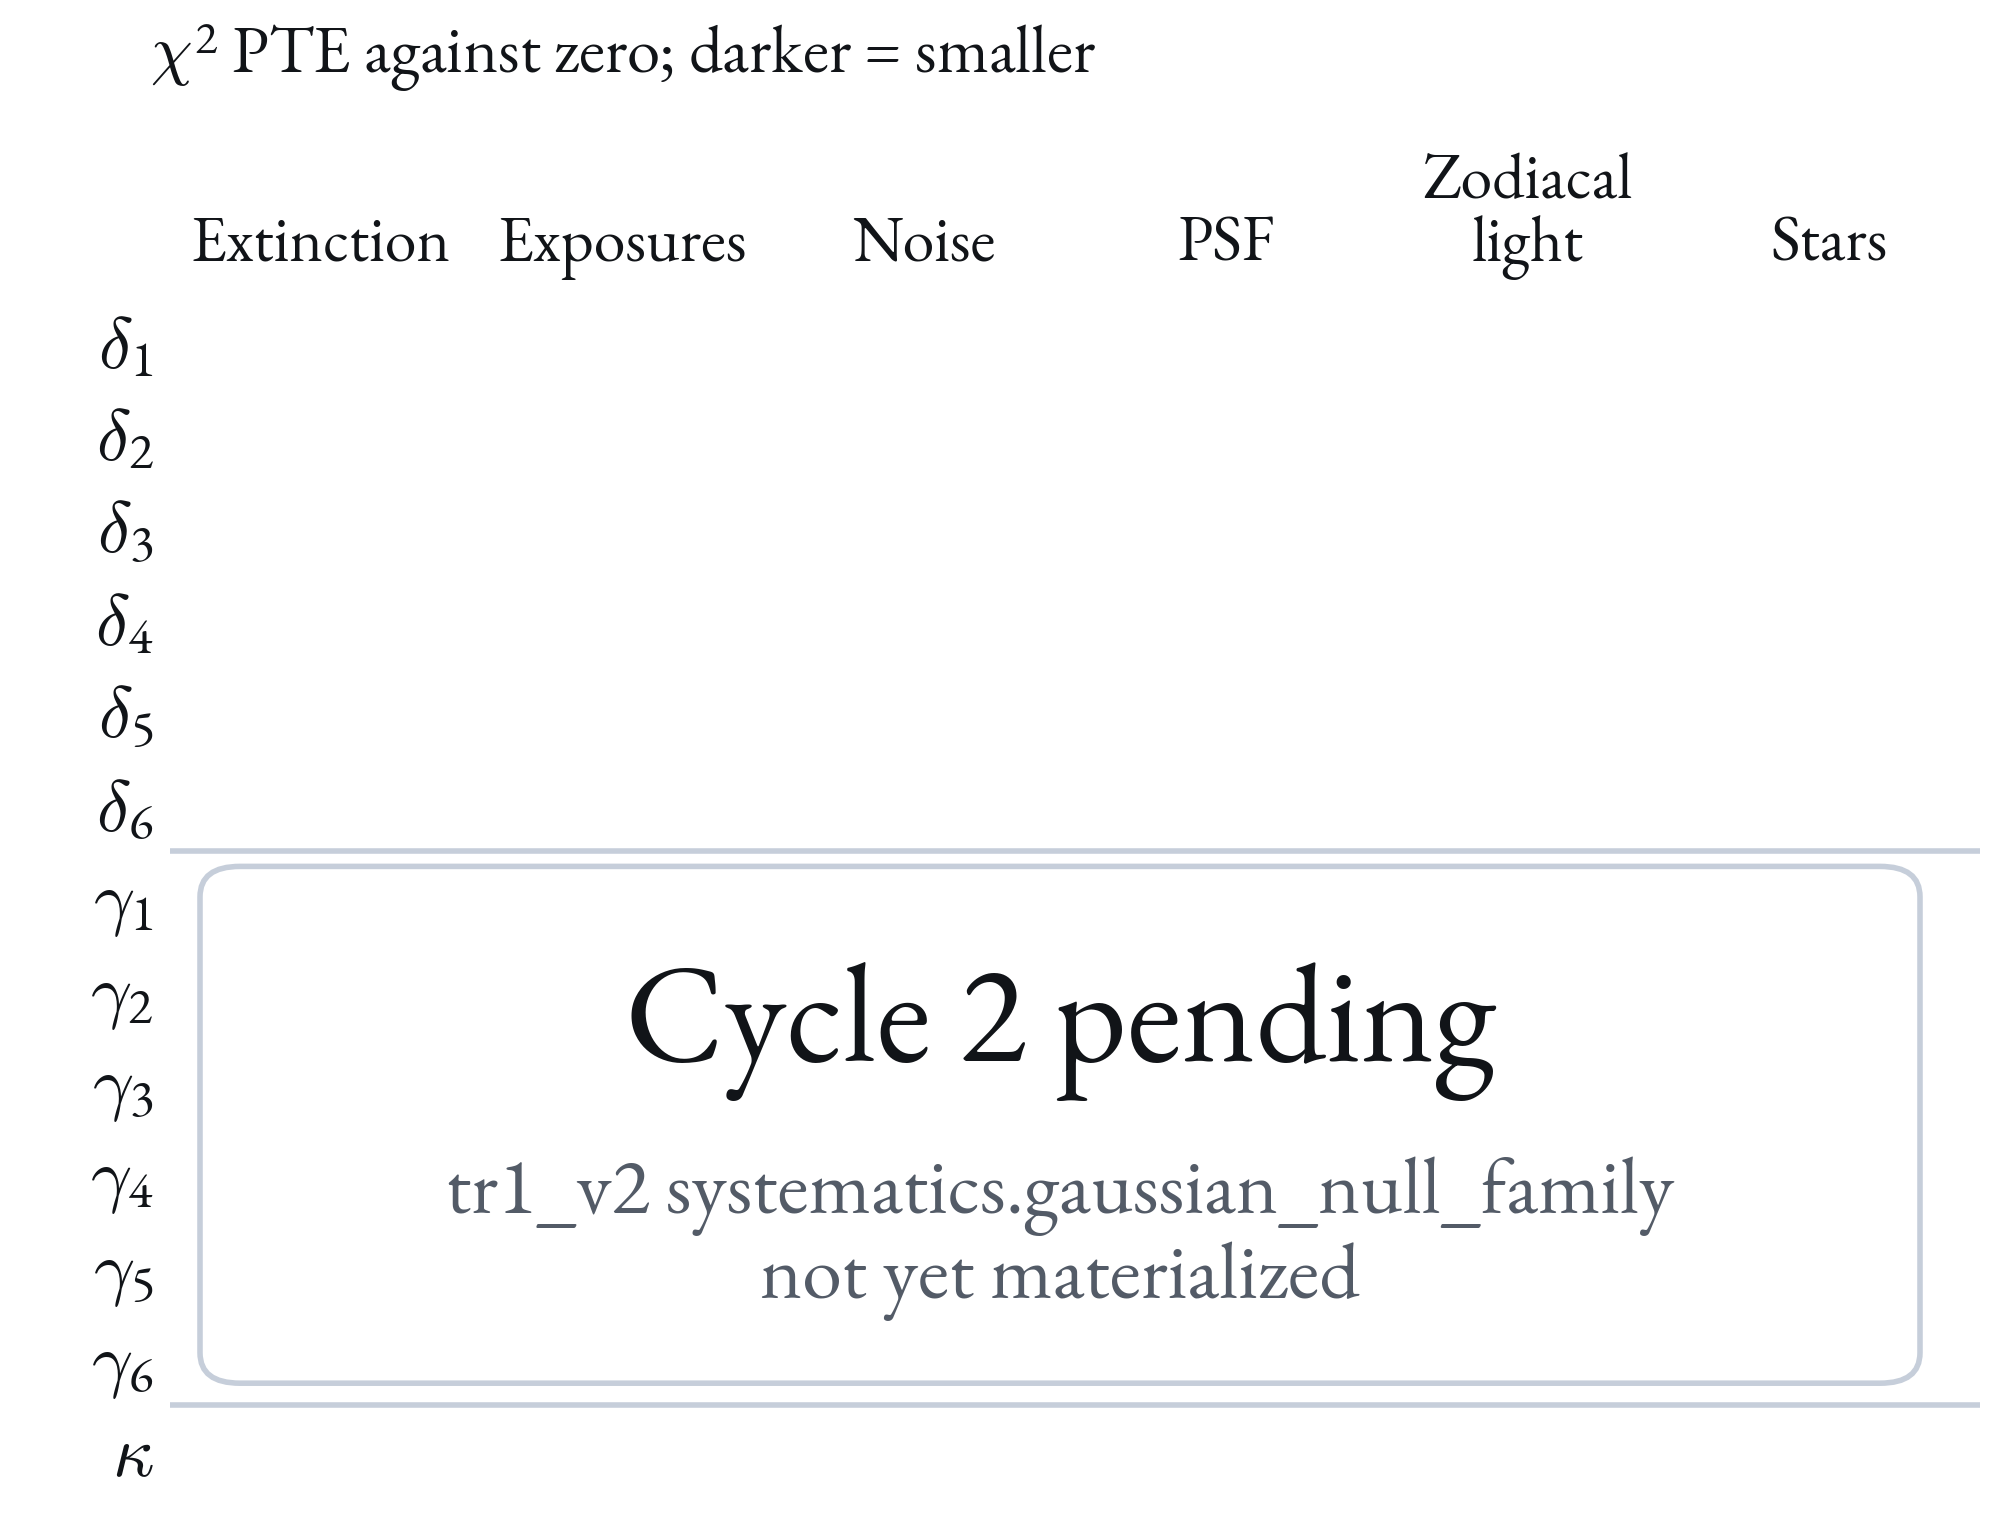
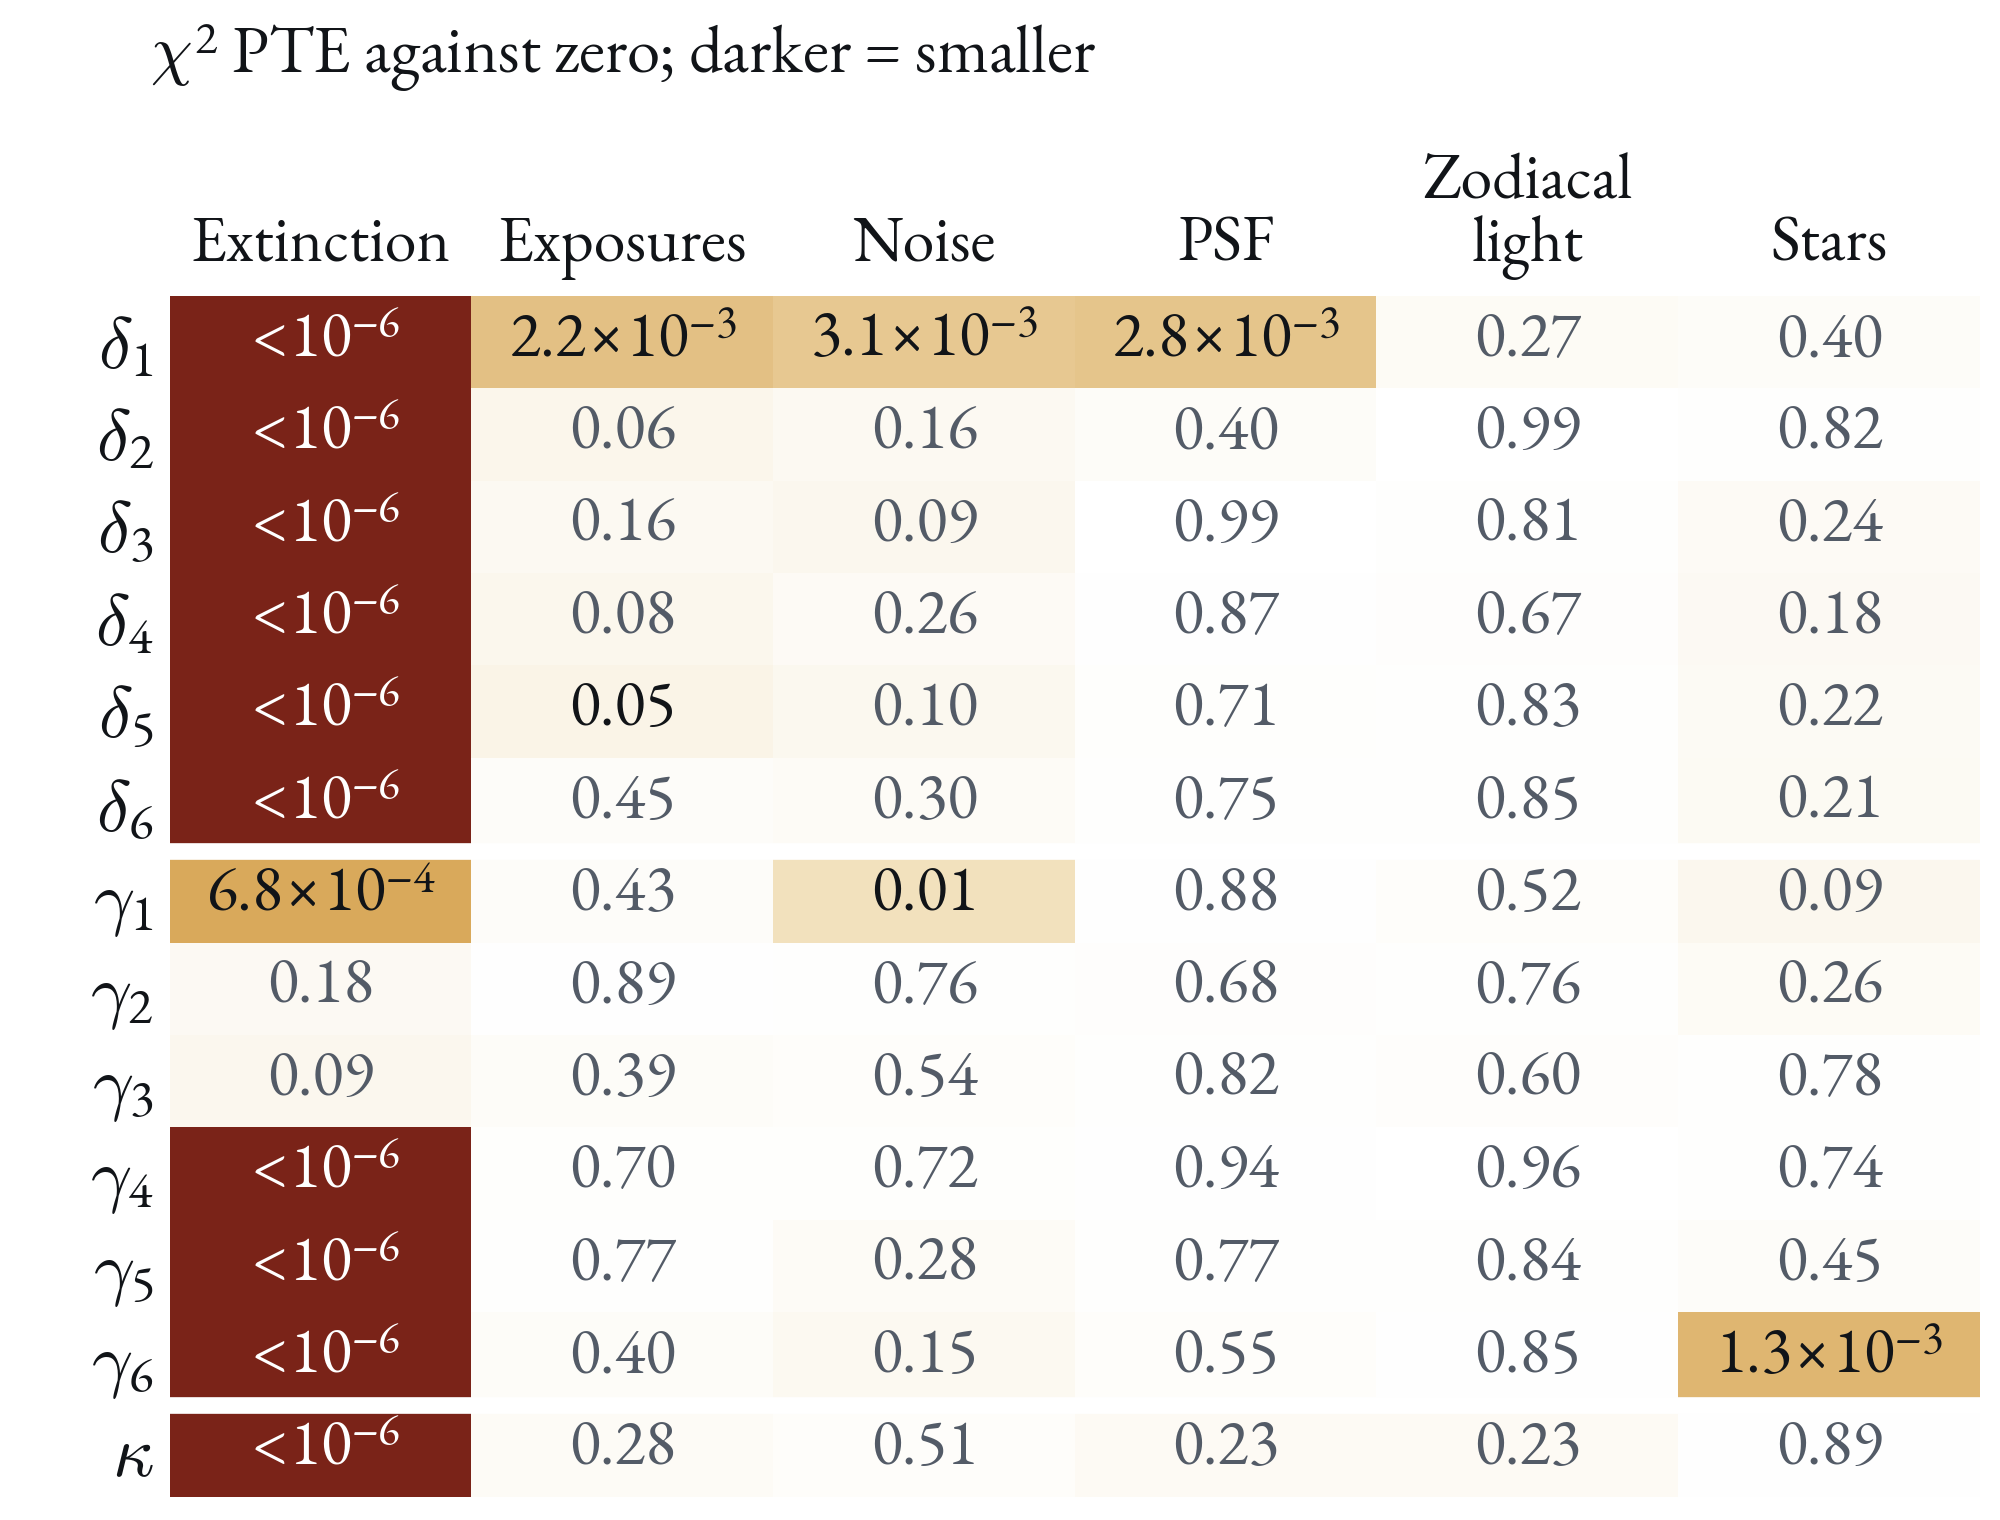
GC8 slide 2: fill Cycle-2 Gaussian template nulls

diff --git a/2610_GC8_Systematics/slides/systematics-overview.html b/2610_GC8_Systematics/slides/systematics-overview.html
@@ -1,9 +1,9 @@
 <section data-preliminary data-layout="figure-text" data-split="60">
-  <h2>Survey-template nulls for the density bins</h2>
+  <h2><span data-variant="c1">Survey-template nulls for the density bins</span><span data-variant="c2">Extinction is nonzero; GC1 retains the depth signature</span></h2>
   <figure>
     <img src="images/gc8_heatmap_c1.png" data-alt='{"c2": "images/gc8_heatmap_c2.png"}' alt="Table of null-test probabilities to exceed: rows are lens bins delta 1 to 6, source bins gamma 1 to 6 and CMB lensing kappa, columns six systematics templates. In Cycle 1 every cell is light except delta 5 against extinction">
     <mark class="box red" data-box="3 18.9 96.6 37.7"></mark>
-    <span class="source"><span data-variant="c1">Cycle 1: TR1 v1.1</span><span data-variant="c2">Cycle 2: tr1_v2</span> · LensMC × SPT-3G · $100 \lt \ell \lt 3000$</span>
+    <span class="source"><span data-variant="c1">Cycle 1: TR1 v1.1</span><span data-variant="c2">Cycle 2: tr1_v2 · joint Gaussian blocks</span> · LensMC × SPT-3G · $100 \lt \ell \lt 3000$</span>
   </figure>
   <div class="text">
     <ul data-variant="c1">
@@ -13,10 +13,11 @@
     </ul>
     <p class="small" data-variant="c1">$\delta$ divided by the VMPZ v1.1 test visibility weights (Jan 2026, not validated). PTEs not calibrated on mocks.</p>
     <ul data-variant="c2">
-      <li>DR1 R2 templates, tr1_v2 selection</li>
-      <li>$\delta$ visibility-corrected at the source</li>
+      <li>Extinction: all six $\delta$ PTEs $\lt 10^{-6}$</li>
+      <li>GC1 × exposures / noise: 0.0022 / 0.0031</li>
+      <li>$\delta_6$ peaks at $+10.45\sigma_\mathrm{G}$</li>
     </ul>
-    <p class="small" data-variant="c2">Fills in when systematics.gaussian_null_family lands.</p>
+    <p class="small" data-variant="c2">Nonzero extinction is expected from the CIB (slide 5); a failed zero-null is not a contamination verdict.</p>
   </div>
   <aside class="notes">
     <p>Each cell is a null test: one Euclid tracer (lens bin $\delta_i$, source bin $\gamma_i$, the rows) or the SPT-3G CMB lensing map $\kappa$, crossed with one VMPZ systematics template (the columns). The number is the $\chi^2$ probability to exceed over 15 bands, $100 \lt \ell \lt 3000$, against zero. The density rows (boxed) are the ones for galaxy clustering to validate. Values below $10^{-6}$ are written as such. These template crosses are blinding-independent. The Cycle toggle switches the data cycle; both cycles show LensMC shear and SPT-3G $\kappa$ (the MetaCal and ACT DR6 versions of Cycle 1 are in the KP2-3 deck).</p>
@@ -26,8 +27,9 @@
     <p>Two caveats on the weights. The visibility model is a SOM fit to five survey-property maps that the headers do not name; a template among them is removed partly by construction, so its clean cell checks that the correction was applied, and only templates outside the model are independent tests. And the WEIGHT convention is this pipeline's: the official randoms follow $1 + \mathrm{WEIGHT}$ with slope 0.52, not 1, so the producers need to confirm it. The correction leaves $\delta \times \kappa$ within $1\sigma$ of the unweighted measurement in every band (largest change $0.96\sigma$, bin 3), so it does not visibly remove signal; an injected-signal mock test would settle that.</p>
     <p>The PTEs are not yet trustworthy as significances: with about a hundred template crosses per variant, correlated through shared tracers and templates, and an analytic covariance not yet checked against mocks, their distribution under the null is not known. The plan is to run the same null tests on the GLASS mocks and calibrate them, as for the UNIONS B-mode null tests. Read the dark cells as clear detections and the 0.01–0.1 cells as unknown.</p>
     <h3>Cycle 2 (tr1_v2)</h3>
-    <p>What changes: the six templates are the DR1 R2 products (same six survey properties), the lens and source samples are the tr1_v2 selection, and the density maps are visibility-corrected at the source (the pipeline's VMPZ visibility footprint), so no after-the-fact weight is applied. The covariance is one joint NaMaster Gaussian covariance for all 78 template $\times$ tracer tests, conditional on the fixed templates (template–data Wick terms set to zero), and each cell's $\chi^2$ uses that test's own block, $\kappa$ included. Producer: <code>workflow/scripts/systematics_cycle2.py</code> (<code>family</code>), lc output <code>results/tr1_v2/systematics/gaussian_null_family.tar</code>, which also carries a Gaussian-draw calibration of the whole family. Until it lands the Cycle-2 panel is empty.</p>
-    <p><strong>Is the extinction signal CIB?</strong> The extinction template is documented as Planck 2013 radiance-based $E(B-V)$, which carries cosmic infrared background; of the six templates it is the only one that correlates with the Planck GNILC CIB maps. The next two slides test the CIB reading. The template-cross estimator leaks the large-scale ($\ell \lt 100$) modes of steep-spectrum maps like dust into the $\ell \ge 100$ bands, so a template cross at a given $\ell$ is not a measurement at that $\ell$; the null tests stand as nulls (an uncorrelated template gives zero in every band whatever leaks). Scratch analyses: <code>results/scratch/napoli/visibility_check</code>, <code>results/scratch/napoli/cib_extinction</code>.</p>
+    <p>What changes: the six templates are the DR1 R2 products (same six survey properties), the lens and source samples are the tr1_v2 selection, and the density maps are visibility-corrected at the source (the pipeline's VMPZ visibility footprint), so no after-the-fact weight is applied. The covariance is one joint NaMaster Gaussian covariance for all 78 template $\times$ tracer tests, conditional on the fixed templates (template–data Wick terms set to zero), and each cell's $\chi^2$ uses that test's own block, $\kappa$ included. Producer: <code>workflow/scripts/systematics_cycle2.py</code> (<code>family</code>), lc output <code>results/tr1_v2/systematics/gaussian_null_family.tar</code>, which also carries a Gaussian-draw calibration of the whole family. All 78 tests have 15 bands; the named blocks and all $\chi^2$/PTEs recompute from <code>summary.json</code> and <code>joint.npz</code> (root commit <code>bd6b06f</code>). Both joint max-$\chi^2$ and Fisher rank PTEs recompute as 1/10001, with zero exceedances in 10000 Gaussian draws (95% tail interval [0, 0.000369]); this is finite-draw resolution, not PTE zero or matched-GLASS calibration.</p>
+    <p>Unlike Cycle 1's visibility-weighted rows, all six density × extinction tests fail the zero-null; $\delta_6$ has $\chi^2=292.70/15$, PTE $1.83\times10^{-53}$. Its worst band is $\ell=2695.5$, $+10.45\sigma_\mathrm{G}$; the preceding four bands are +4.51, +4.58, +5.56 and +6.91, a broad positive high-$\ell$ sequence, not an isolated spike. The largest shear band is $\gamma_6$ at $\ell=2148$, $+9.56\sigma_\mathrm{G}$. GC1 keeps the exposure/noise signature: $\chi^2=35.40/34.26$ (15 bands), PTE 0.002159/0.003126, with opposite-sign worst bands at $\ell=1712$, $+4.16/-3.40\sigma_\mathrm{G}$. GC1 × PSF also gives PTE 0.002781 (worst $+3.28\sigma_\mathrm{G}$ at $\ell=2695.5$); $\gamma_6$ × stars gives 0.001254 (worst $+2.98\sigma_\mathrm{G}$ at $\ell=2695.5$). These are correlated tests, not independent discoveries.</p>
+    <p><strong>Is the extinction signal CIB?</strong> The extinction template is documented as Planck 2013 radiance-based $E(B-V)$, which carries cosmic infrared background; of the six templates it is the only one that correlates with the Planck GNILC CIB maps. Slide 5's separate 857 GHz route test supports a CIB reading. A nonzero extinction × density cross is then expected, so failure of the zero-null does not by itself imply survey contamination. The template-cross estimator leaks the large-scale ($\ell \lt 100$) modes of steep-spectrum maps like dust into the $\ell \ge 100$ bands, so a template cross at a given $\ell$ is not a measurement at that $\ell$; the null tests stand as nulls (an uncorrelated template gives zero in every band whatever leaks). Scratch analyses: <code>results/scratch/napoli/visibility_check</code>, <code>results/scratch/napoli/cib_extinction</code>.</p>
     <p>Figure: <code>2610_GC8_Systematics/make_cycles.py</code> (<code>heatmap</code>), from <code>results/tr1/tr1_systematics/&lt;template&gt;.tar</code> (Cycle 1) and <code>results/tr1_v2/systematics/gaussian_null_family.tar</code> (Cycle 2). Detected in a cross does not mean large in the data vector: the next slide puts each template's implied contamination in units of the data's own error bars.</p>
   </aside>
 </section>
